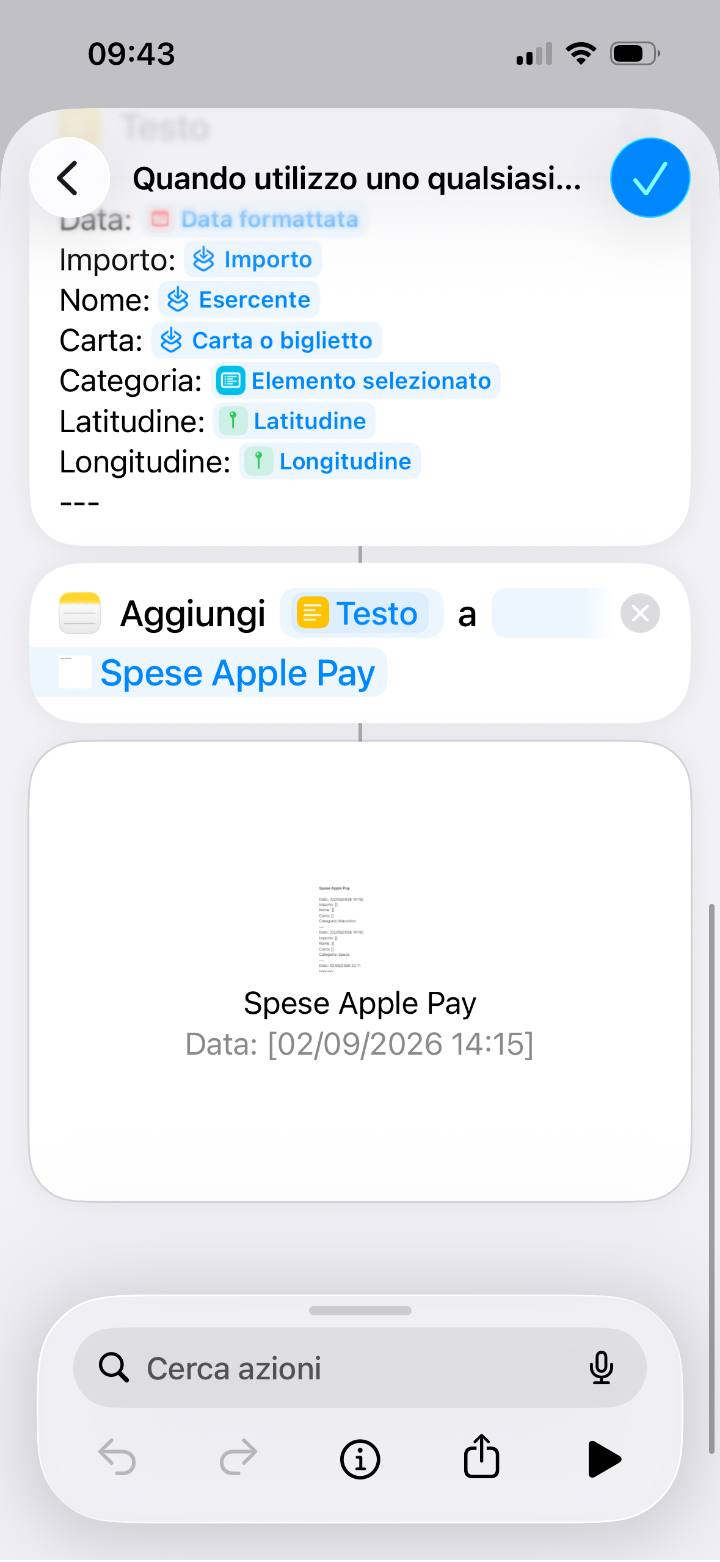
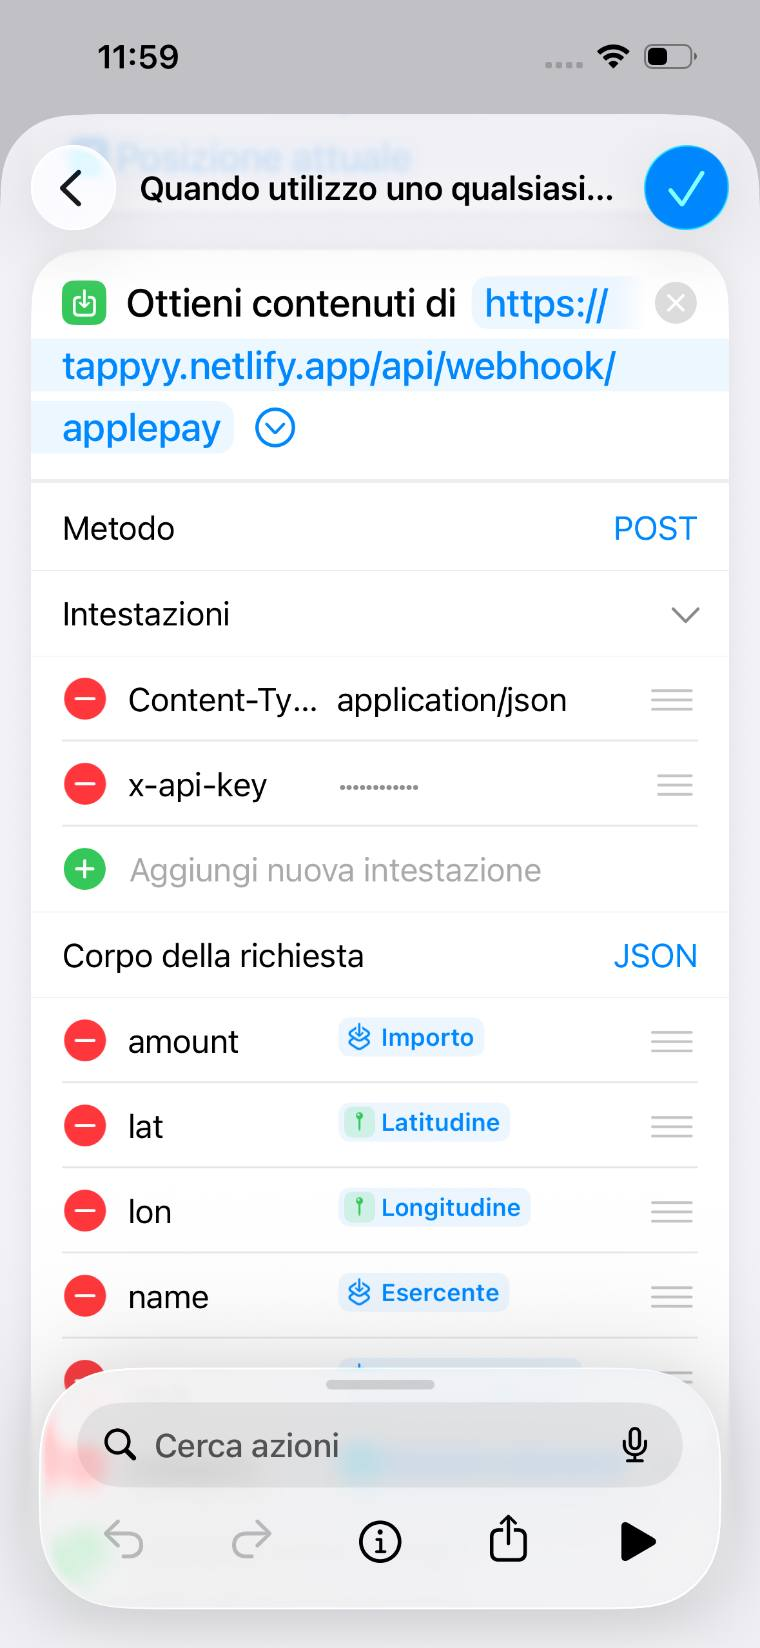
Guida: nuove immagini, categoria, e la nota dichiarata facoltativa
Le schermate rifanno l'automazione com'è adesso: innesco con Elenco e
Scegli da Elenco, posizione con precisione ottimale, l'azione dell'URL
aperta, e il blocco della nota. Nella terza la chiave è mascherata.

Aggiunti i passi sulla categoria e sulla nota: Testo e Aggiungi a nota
non servono, e chi le tiene deve prima creare la nota nell'app Note,
altrimenti l'automazione si ferma prima dell'invio.

Claude-Session: https://claude.ai/code/session_01H3poq5UZy4bmtpKeGV99Xx

diff --git a/client/src/views/GuidaAutomazione.tsx b/client/src/views/GuidaAutomazione.tsx
@@ -97,7 +97,7 @@ export default function GuidaAutomazione({ onChiudi }: { onChiudi: () => void })
         </p>
 
         <Passo numero={1} titolo="Tieni a portata questi due valori">
-          <p>Servono all&apos;ultimo passaggio. Puoi tornare qui a copiarli.</p>
+          <p>Servono al passo 5. Puoi tornare qui a copiarli.</p>
           <div className="flex flex-col gap-2 mt-1">
             <button
               onClick={() => copia("url")}
@@ -141,7 +141,7 @@ export default function GuidaAutomazione({ onChiudi }: { onChiudi: () => void })
           numero={2}
           titolo="Crea l'automazione"
           immagine="./guida/1-innesco.jpg"
-          didascalia="L'innesco giusto comincia con «Ricevi transazione come input»"
+          didascalia="L'innesco giusto, e sotto le due azioni della categoria"
         >
           <ol className="list-decimal pl-4 flex flex-col gap-1.5">
             <li>
@@ -160,19 +160,34 @@ export default function GuidaAutomazione({ onChiudi }: { onChiudi: () => void })
           </p>
         </Passo>
 
-        <Passo
-          numero={3}
-          titolo="Aggiungi le azioni"
-          immagine="./guida/2-azioni.jpg"
-          didascalia="Le azioni della posizione, se vuoi vedere dove hai speso"
-        >
-          <p>Cerca e aggiungi, in quest&apos;ordine:</p>
+        <Passo numero={3} titolo="Fatti chiedere la categoria">
+          <p>Due azioni, se vuoi scegliere la categoria al volo:</p>
           <ol className="list-decimal pl-4 flex flex-col gap-1">
             <li>
-              <b>Ottieni la posizione attuale</b>
+              <b>Elenco</b> → scrivi i nomi delle tue categorie, uno per riga
             </li>
             <li>
-              <b>Ottieni dettagli dalla posizione</b> → scegli <b>Latitudine</b>
+              <b>Scegli da Elenco</b> → <b>Titolo</b>: <code>scegli categoria</code>, selezione
+              multipla spenta
+            </li>
+          </ol>
+          <p>
+            Se salti questo passo la spesa finisce in <i>Altro</i>, e la cambi dall&apos;app.
+          </p>
+        </Passo>
+
+        <Passo
+          numero={4}
+          titolo="Prendi la posizione"
+          immagine="./guida/2-posizione.jpg"
+          didascalia="Precisione «Ottimale», poi latitudine e longitudine"
+        >
+          <ol className="list-decimal pl-4 flex flex-col gap-1">
+            <li>
+              <b>Ottieni la posizione attuale</b> → <b>Precisione</b>: <b>Ottimale</b>
+            </li>
+            <li>
+              <b>Ottieni dettagli dalla posizione</b> → <b>Latitudine</b>
             </li>
             <li>di nuovo lo stesso, scegliendo <b>Longitudine</b></li>
           </ol>
@@ -183,13 +198,13 @@ export default function GuidaAutomazione({ onChiudi }: { onChiudi: () => void })
         </Passo>
 
         <Passo
-          numero={4}
+          numero={5}
           titolo="Aggiungi l'invio a tappy"
           immagine="./guida/3-invio.jpg"
-          didascalia="L'automazione completa, prima di sostituire la nota con l'invio"
+          didascalia="L'azione dell'URL aperta con «Mostra altro»"
         >
           <p>
-            Aggiungi per ultima l&apos;azione <b>Ottieni contenuti dall&apos;URL</b>, poi tocca{" "}
+            Aggiungi l&apos;azione <b>Ottieni contenuti dall&apos;URL</b>, poi tocca{" "}
             <b className="text-ink dark:text-ink-dark">Mostra altro</b>: senza, gli altri campi
             restano nascosti.
           </p>
@@ -214,6 +229,7 @@ export default function GuidaAutomazione({ onChiudi }: { onChiudi: () => void })
                 <Campo nome="amount" tipo="Numero" valore="Importo" />
                 <Campo nome="name" tipo="Testo" valore="Esercente" />
                 <Campo nome="card" tipo="Testo" valore="Carta o biglietto" />
+                <Campo nome="category" tipo="Testo" valore="Elemento selezionato" />
                 <Campo nome="lat" tipo="Numero" valore="Latitudine" />
                 <Campo nome="lon" tipo="Numero" valore="Longitudine" />
               </tbody>
@@ -229,7 +245,28 @@ export default function GuidaAutomazione({ onChiudi }: { onChiudi: () => void })
           </p>
         </Passo>
 
-        <Passo numero={5} titolo="Provala">
+        <Passo
+          numero={6}
+          titolo="La nota non serve"
+          immagine="./guida/4-nota.jpg"
+          didascalia="Le due azioni della nota: facoltative, si possono togliere"
+        >
+          <p className="text-ink dark:text-ink-dark">
+            Le azioni <b>Testo</b> e <b>Aggiungi a nota</b> non sono necessarie: tappy registra la
+            spesa lo stesso. Servivano solo a tenere un doppione durante le prove.
+          </p>
+          <p>
+            Se le vuoi comunque, la nota va <b>creata prima nell&apos;app Note</b> (per esempio
+            «Spese Apple Pay»): se non esiste, l&apos;azione non trova dove scrivere e
+            l&apos;automazione si ferma lì.
+          </p>
+          <p>
+            Solo in quel caso serve anche <b>Formatta data</b> (visibile al passo 4): è la data
+            che finisce nel testo della nota, non nel movimento.
+          </p>
+        </Passo>
+
+        <Passo numero={7} titolo="Provala">
           <p className="text-ink dark:text-ink-dark">
             Eseguendola a mano importo ed esercente arrivano <b>vuoti</b>: non c&apos;è nessun
             pagamento da cui prenderli. È normale.
@@ -254,8 +291,9 @@ export default function GuidaAutomazione({ onChiudi }: { onChiudi: () => void })
           <h2 className="text-headline">Se non funziona</h2>
           <div className="text-callout text-muted dark:text-muted-dark flex flex-col gap-3">
             <p>
-              Aggiungi in fondo l&apos;azione <b>Mostra notifica</b> con dentro il{" "}
-              <b>Contenuto dell&apos;URL</b>: ti mostra la risposta di tappy.
+              Aggiungi in fondo l&apos;azione <b>Mostra notifica</b> con dentro i{" "}
+              <b>Contenuti URL</b> (è l&apos;ultima dell&apos;immagine qui sopra): ti mostra la
+              risposta di tappy.
             </p>
             <ul className="flex flex-col gap-2">
               <li>

diff --git a/shortcuts/AUTOMAZIONE.md b/shortcuts/AUTOMAZIONE.md
@@ -72,7 +72,12 @@ Mentre la costruisci, tieni due cose in fondo e toglile quando funziona:
 
 - il blocco **Testo** + **Aggiungi a nota**, che ti mostra cosa è arrivato
   davvero dall'innesco — utile se tappy non riceve nulla e vuoi sapere se il
-  problema è a monte;
+  problema è a monte. **Non è necessario**: la spesa si registra lo stesso. Se
+  lo tieni, la nota di destinazione (es. «Spese Apple Pay») **va creata prima
+  nell'app Note**: se non esiste, l'azione non trova dove scrivere e
+  l'automazione si ferma lì, prima dell'invio. È l'unico motivo per cui serve
+  anche l'azione **Formatta data**, che riempie il testo della nota e non ha
+  niente a che vedere col movimento;
 - un'azione **Mostra notifica** con il *Contenuto dell'URL*, che ti mostra la
   risposta del server.
 
